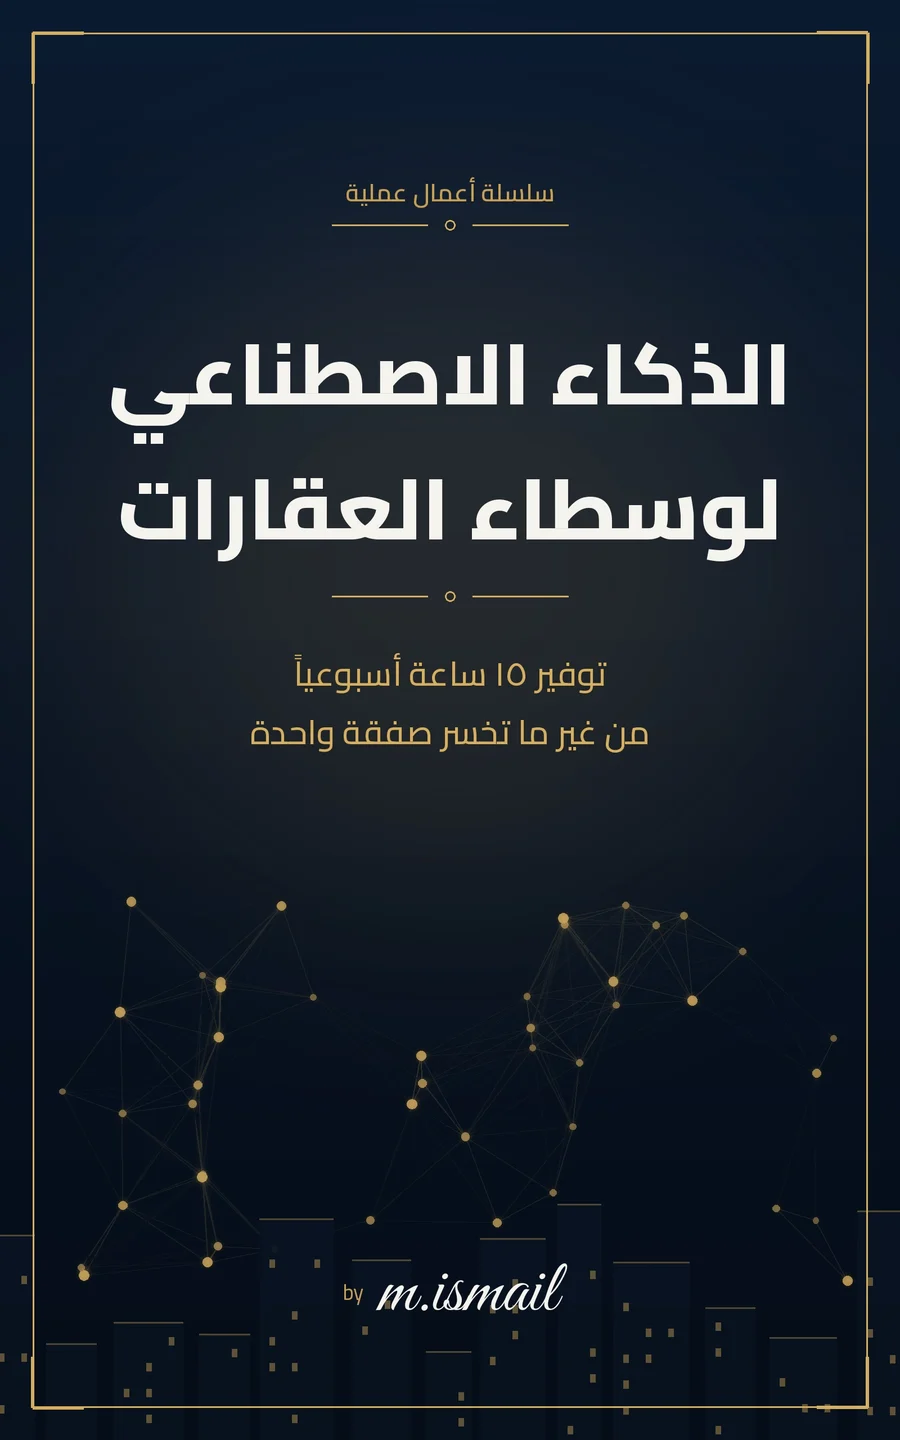
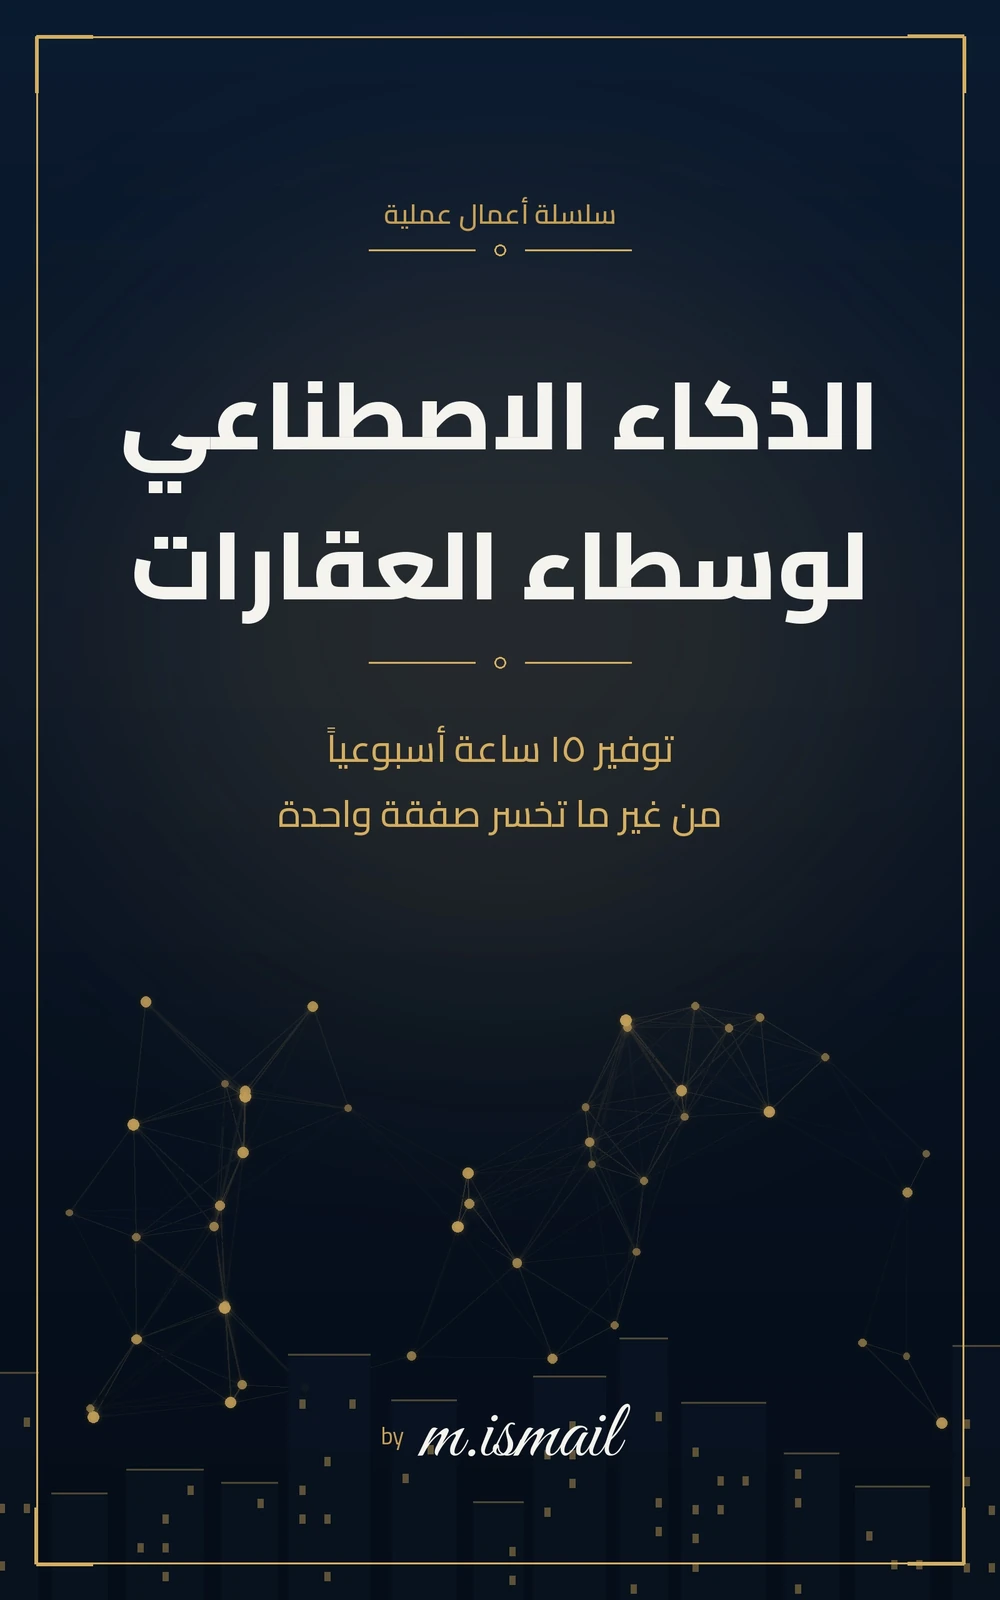
المتجر: ترقية غلافَي الكتاب العقاري إلى 1000×1600 + كسر كاش (?v=2411)

diff --git a/store.html b/store.html
@@ -325,7 +325,7 @@ body{font-family:Cairo,sans-serif;background:#0F1E3D;color:#e8eef8;margin:0;padd
     </div>
     <div class="part-divider"><span>إصدار جديد · سلسلة أعمال عملية</span></div>
     <div class="product-card" id="card-aire">
-      <div class="cover-wrap"><img class="cover-img" src="books/ai-real-estate/cover-ar.webp?v=2410" alt="غلاف كتاب الذكاء الاصطناعي لوسطاء العقارات"></div>
+      <div class="cover-wrap"><img class="cover-img" src="books/ai-real-estate/cover-ar.webp?v=2411" alt="غلاف كتاب الذكاء الاصطناعي لوسطاء العقارات"></div>
       <h2>الذكاء الاصطناعي لوسطاء العقارات</h2>
       <span class="lang-tag">العربية</span>
       <p class="desc">لو يومك كله رسايل واتساب ومفيش صفقة بتتقفل — الكتاب ده ليك. نظام شغل في ٨ خطوات: السلال التلاتة، أربع مهام بترجّع ١٥ ساعة، الرد على «المقابل المالي كتير» من غير خصم، اعتراض المكان بالدقايق، متابعة ٢–٧–٢١، ترتيب ٧ صور و٣ زوايا إعلان، حدود الأداة، وخطة ٣٠ يوم. مع ٥ رسومات و٤ ملاحق.</p>
@@ -333,7 +333,7 @@ body{font-family:Cairo,sans-serif;background:#0F1E3D;color:#e8eef8;margin:0;padd
       <button class="buy-btn" onclick="orderProduct('aire')">اطلب نسختك بـ75ج</button>
     </div>
     <div class="product-card" id="card-aire-en">
-      <div class="cover-wrap"><img class="cover-img" src="books/ai-real-estate/cover-en.webp?v=2410" alt="AI for Real Estate Agents cover"></div>
+      <div class="cover-wrap"><img class="cover-img" src="books/ai-real-estate/cover-en.webp?v=2411" alt="AI for Real Estate Agents cover"></div>
       <h2>AI for Real Estate Agents</h2>
       <span class="lang-tag">English</span>
       <p class="desc">If your day is 37 WhatsApp messages and zero closings, this is for you. A working system in eight steps: the three baskets, four tasks that return 15 hours, answering "the price is too high" without cutting a dollar, the 2–7–21 follow-up cadence, seven photos and three ad angles, the limits of the tool, and a 30-day plan. Five diagrams, four appendices.</p>
